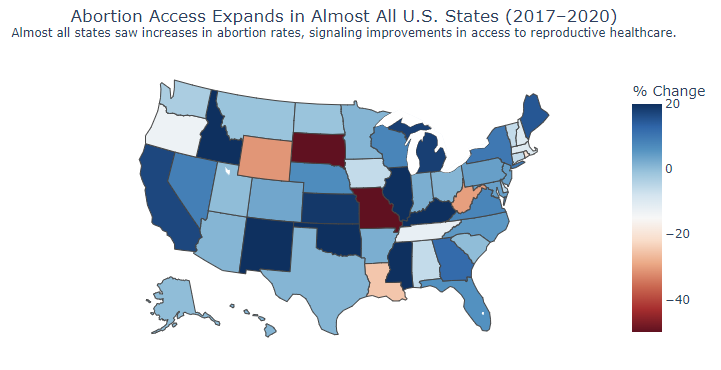
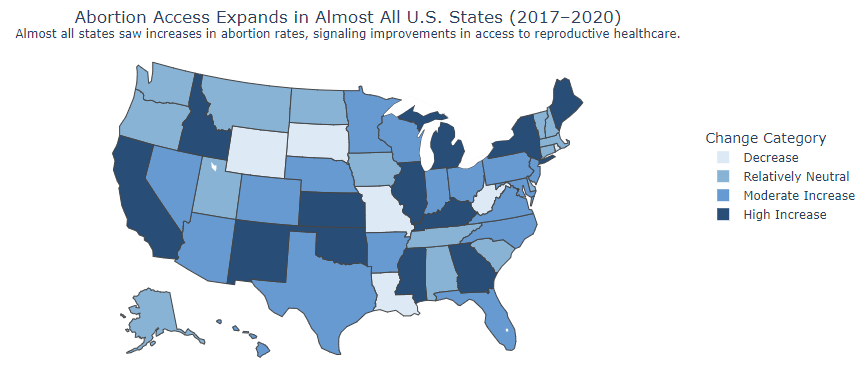
p4

diff --git a/index.html b/index.html
@@ -27,15 +27,15 @@
         <p>Design Decisions and Rationale:</p>
 
         <ul>
-            <li><strong>Adjusted the color scale range to [-50, 20] to emphasize increases in abortion rates.</strong><br>
-            <em>Score: +1.5 </em><br>
-            I adjusted the color range to make positive abortion rate changes visually stronger while still showing decreases. This helped the visualization feel more persuasive by making improvements seem more widespread. What worked well was that it made positive increases darker blue, even if the change was minimal. I considered using a symmetric color range but settled on this asymmetric range to better match the persuasive goal while keeping the data truthful.
-            </li>
+            <li><strong>Binned the % changes</strong><br>
+            <em>Score: +2 </em><br>
+            I binned each state's percent change in abortion rates from 2017–2020 into four categories: Decrease (less than -15%), Relatively Neutral (up to 1%), Moderate Increase (up to 10%), and High Increase (above 10%). This binning minimized the appearance of small decreases and made even small gains seem significant. It helped frame the data to support the proposition persuasively. I considered using a continuous color scale but chose binning to allow stronger visual grouping toward positive change.</li>
           
-            <li><strong>Used a diverging blue-red color scale ('RdBu') to represent changes.</strong><br>
-            <em>Score: +1 </em><br>
-            The diverging color scale clearly separated increases and decreases, intuitively guiding the viewer's understanding. It helped the visualization feel balanced but persuasive toward positive outcomes. I considered using a single sequential color, but diverging colors better highlighted differences. The only drawback to this technique was that for the strongly decreased states, the dark red draws the viewers attention. 
-            </li>
+            <li>
+                <strong>Used a single blue sequential color scale across all categories, including decreases.</strong><br>
+                <em>Score: -1.5 </em><br>
+                I chose to use only shades of blue for all categories, including states that had decreases. This decision made it difficult for viewers to immediately distinguish negative outcomes, visually reinforcing the perception that abortion access expanded almost everywhere. It worked well because it minimized the attention drawn to negative states. I considered using a diverging blue-red scale, but ultimately chose a sequential blue scale to create a stronger, more cohesive visual message in support of the proposition.
+              </li>
           
             <li><strong>Wrote a title and subtitle that frame the data positively.</strong><br>
             <em>Score: +0.5 </em><br>
